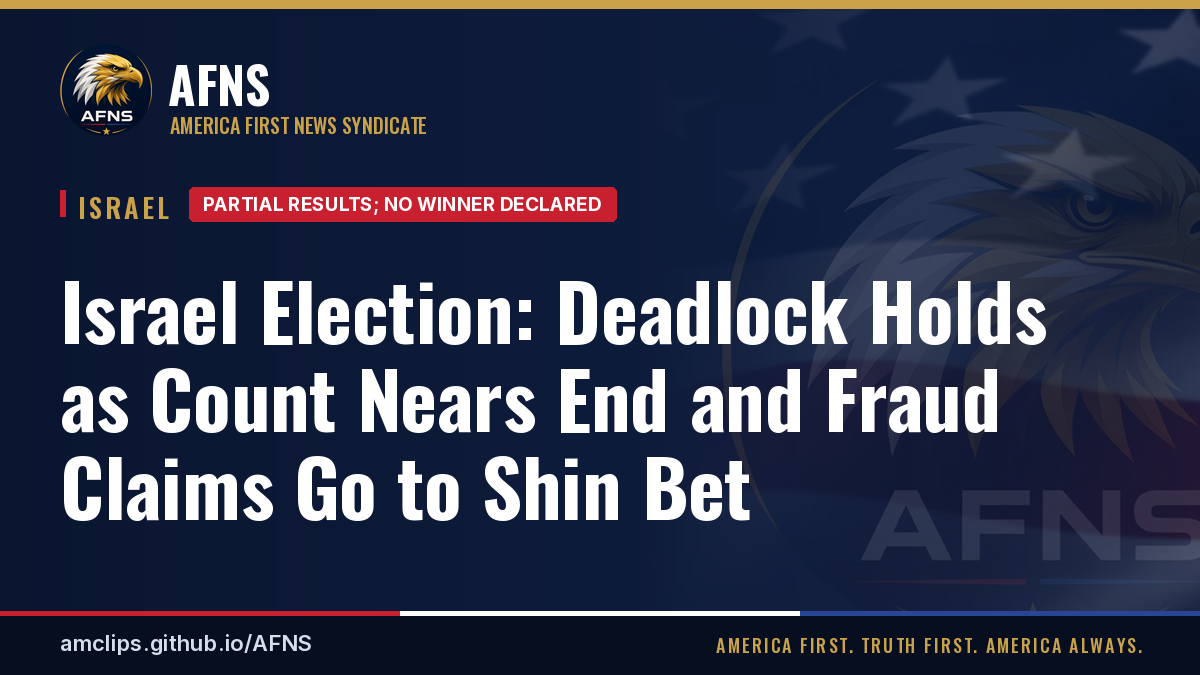
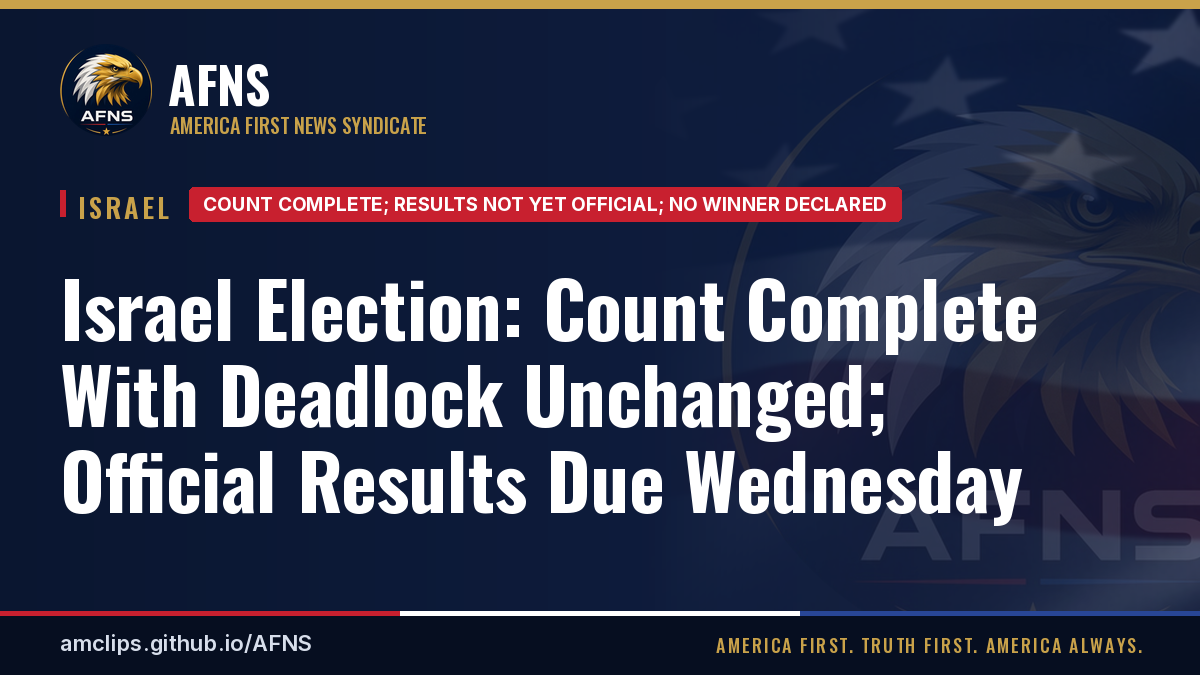
Update the Israel election and Iran stories for 11 AM. (#19)
The count is complete, with a UTJ report and an Iran energy-strike request. The election share card uses the new headline.

Changed region(s): [[0.0308, 0.4044, 0.8942, 0.7778], [0.1542, 0.28, 0.7708, 0.3422]]

diff --git a/content/israel/israel-election-no-clear-winner-netanyahu-eisenkot-claim-victory.md b/content/israel/israel-election-no-clear-winner-netanyahu-eisenkot-claim-victory.md
@@ -1,19 +1,22 @@
 ---
-title: "Israel Election: Deadlock Holds as Count Nears End and Fraud Claims Go to Shin Bet"
+title: "Israel Election: Count Complete With Deadlock Unchanged; Official Results Due Wednesday"
 desk: israel
 date: 2026-10-28
-summary: "Updated Oct. 29, 9 AM CT: with about 97.3% counted, Likud is up a seat to 27 and Shas is down to 6, but the blocs are unchanged at 53-48-19. The count should finish Thursday afternoon or evening Israel time. Seven people have been arrested in an alleged vote-buying probe in the Negev, while officials call wider fraud claims baseless. The elections committee asked the Shin Bet to look into foreign-interference claims, which are unproven; police say there is no evidence of fraud. A unity deal floated by Netanyahu's camp is UNVERIFIED, and Liberman ruled out more partners."
+summary: "Updated Oct. 29, 11 AM CT: the Central Elections Committee says counting is complete. With about 99% entered, the blocs are unchanged: Netanyahu bloc 53, and the opposition including Arab parties 67 (the same 53-48-19 split). The Reservists list missed the threshold, and official results come Wednesday, Nov. 4, after a final integrity review. Unnamed UTJ sources say the party could back Eisenkot from outside the coalition, on a draft-exemption condition. Seven people have been arrested in an alleged vote-buying probe in the Negev, while officials call wider fraud claims baseless. The elections committee asked the Shin Bet to look into foreign-interference claims, which are unproven; police say there is no evidence of fraud. A unity deal floated by Netanyahu's camp is UNVERIFIED, and Liberman ruled out more partners."
 image: "img/stories/israel-election-no-clear-winner-netanyahu-eisenkot-claim-victory.jpg"
 image_alt: "Ballot slips for each party list laid out in a voting booth at an Israeli polling station, Oct. 27, 2026"
 image_credit: "Nizzan Cohen / Wikimedia Commons"
 image_source_url: "https://commons.wikimedia.org/wiki/File%3A2026_election_polling_stations_02.jpg"
 image_license: "CC BY 4.0"
-status: "Partial results; no winner declared"
+status: "Count complete; results not yet official; no winner declared"
 featured: true
 desk_lead: true
 key_points:
-  - Count (Oct. 29, 9 AM CT) - about 97.3% counted; Likud up a seat to 27, Shas down to 6; blocs unchanged at 53-48-19 (Kan News and Jerusalem Post on X)
-  - Thresholds - the Reservists list looks set to miss the threshold. The count should finish Thursday afternoon or evening Israel time
+  - Count complete (Oct. 29, 11 AM CT) - the Central Elections Committee says counting is done. With about 99% entered, the Netanyahu bloc has 53 and the opposition including Arab parties 67 (Haaretz; ynet)
+  - Seats - Likud 27, Yashar 21, Together 12, Joint List 11, Ra'am 8, Democrats 8, Otzma Yehudit 7, Yisrael Beiteinu 7, UTJ 7, Shas 6, Religious Zionism 6. The Reservists list missed the threshold (Haaretz; ynet)
+  - Official results come Wednesday, Nov. 4, after a final election-integrity review
+  - Unnamed sources - a senior UTJ source told Channel 12 the party would abstain to support an Eisenkot minority government from outside, if a law exempts yeshiva students from the draft. Eisenkot backs universal service (Ynetnews; Times of Israel)
+  - Shin Bet - its interference probe rests on its own intelligence, not material from any party; Qatar called the claims "ridiculous and dangerous" (Haaretz/Reuters; Guardian)
   - Allegations - the Negev vote-buying probe has grown to seven arrests, including three Bedouin school principals; Kan says four were released to house arrest. Likud is preparing to seek revotes at some Arab polling stations (Ynet and Kan News on X)
   - Pushback - the elections committee director says widespread fraud claims appear baseless; a senior police official called them "baseless spin" (Times of Israel and Haaretz on X)
   - Qatar "categorically" denies interfering (i24NEWS and Ynet on X)
@@ -33,8 +36,7 @@ key_points:
   - Coalition scramble - ynet reports Likud is reaching out to Bennett and Liberman; Haaretz analysts say another election looks likely
   - UNPROVEN - Likud claims Arab parties "stole" the election. The elections committee is reviewing the claims and has not backed them, and Likud has shown no proof publicly
   - Trump, in comments reported from an Axios interview, said Netanyahu is "in pretty good shape"
-  - Netanyahu bloc 53, Eisenkot bloc 48, Arab parties a record 19; Likud 27, Yashar 21
-  - Official results go to Herzog next Wednesday, Nov. 4. Seats can still move until then
+  - Netanyahu bloc 53; opposition 67, made up of the Eisenkot bloc's 48 and a record 19 for the Arab parties; Likud 27, Yashar 21
   - Netanyahu's bloc was as high as 57 overnight at about 42% counted and has slipped since
   - Herzog urged parties to avoid a repeat election; he expects official results next week, with consultations after
   - The opposition is moving to replace Likud's Amir Ohana as Knesset speaker (Channel 12 via the Times of Israel)
@@ -42,6 +44,9 @@ key_points:
   - Defense Minister Katz called Eisenkot's election-night appeal to security chiefs undemocratic
   - The EU congratulated Israel, citing nearly 78% turnout as a sign of a "vibrant democracy"
 sources:
+  - Haaretz live, Oct. 29: count complete, Shin Bet on the probe | https://www.haaretz.com/israel-news/elections/2026-10-29/ty-article-live/seat-results-steady-as-elections-committee-begins-counting-absentee-ballots/000001a1-8567-d9b5-a3b5-cdf7e5cc0004
+  - Ynetnews: UTJ open to backing Eisenkot from outside | https://www.ynetnews.com/article/z6u0ropnp
+  - Times of Israel: UTJ sources on backing Eisenkot from outside | https://www.timesofisrael.com/liveblog_entry/utj-sources-proposing-to-back-eisenkot-from-outside-the-government-report/
   - Kan News on X: count at 97.3% | https://x.com/kann_news/status/2115796715194274060
   - Jerusalem Post on X: count at 97.3% | https://x.com/Jerusalem_Post/status/2115804621650161775
   - Ynetnews on X: vote-buying probe widens | https://x.com/ynetnews/status/2115762924660601131
@@ -54,7 +59,7 @@ sources:
   - Kan News on X: Abbas met Golan | https://x.com/kann_news/status/2115783837133451335
   - Jerusalem Post on X: Golan met Lapid | https://x.com/Jerusalem_Post/status/2115804575206715832
   - Jerusalem Post on X: Highway 4 Haredi protest | https://x.com/Jerusalem_Post/status/2115806033519996936
-  - X story summary: Al-Maghazi strike (unverified) | https://x.com/i/trending/2115777964608545249
+  - X story summary: Al-Maghazi strike | https://x.com/i/trending/2115777964608545249
   - ynet live (Hebrew): the count | https://www.ynet.co.il/news/blogs/article/sj60fvepze
   - Globes live (Hebrew): the count | https://www.globes.co.il/news/article.aspx?did=1001561230
   - Israel National News: the count | https://www.israelnationalnews.com/news/435322
@@ -116,9 +121,36 @@ sources:
   - Kan News on X: Sa'ar and Likud HQ | https://x.com/kann_news/status/2115185246060568781
 ---
 
-**Updated Oct. 29, 2026, 9 AM CT.** About 97.3% of the vote is counted, replacing the earlier 96.1% figure. Likud is up a seat and Shas is down one, and the blocs are unchanged. The 9 AM update below adds the widening vote-buying probe, officials' pushback on fraud claims, Qatar's denial and new opposition talks. The 7 AM update added the Shin Bet request on the fraud claims, an UNVERIFIED unity-deal briefing, Liberman's new refusals and the latest opposition talks. The figures below replace the earlier partial counts and the election-night early count. First published Oct. 27.
+**Updated Oct. 29, 2026, 11 AM CT.** The Central Elections Committee says counting is complete, replacing the earlier 97.3% figures. The blocs are unchanged. The 11 AM update below adds the full seat list, UTJ's reported opening to Eisenkot and the Shin Bet on its probe. The 9 AM update added the widening vote-buying probe, officials' pushback on fraud claims, Qatar's denial and new opposition talks. The 7 AM update added the Shin Bet request on the fraud claims, an UNVERIFIED unity-deal briefing, Liberman's new refusals and the latest opposition talks. The figures below replace the earlier partial counts and the election-night early count. First published Oct. 27.
 
-**Status: Partial results; no winner declared.** Counting is not finished, so **seats can still move**. No camp has a majority.
+**Status: Count complete; results not yet official; no winner declared.** The Central Elections Committee says counting is done. Official results come Wednesday, after a final election-integrity review. No camp has a majority.
+
+## 11 AM CT update, Oct. 29
+
+### Counting is complete. The deadlock is unchanged
+
+The Central Elections Committee says counting is done. With about 99% entered, the blocs are unchanged ([Haaretz live](https://www.haaretz.com/israel-news/elections/2026-10-29/ty-article-live/seat-results-steady-as-elections-committee-begins-counting-absentee-ballots/000001a1-8567-d9b5-a3b5-cdf7e5cc0004); [ynet live, Hebrew](https://www.ynet.co.il/news/blogs/article/sj60fvepze)):
+
+- **Netanyahu bloc:** 53 seats
+- **Opposition, including Arab parties:** 67 seats. This is the same split as the earlier 53-48-19: the Eisenkot bloc's 48 plus the Arab parties' 19.
+
+**Seats by party:** Likud 27, Yashar 21, Together 12, Joint List 11, Ra'am 8, Democrats 8, Otzma Yehudit 7, Yisrael Beiteinu 7, UTJ 7, Shas 6, Religious Zionism 6.
+
+**Threshold:** the Reservists list missed the threshold.
+
+**What's next:** official results come Wednesday, Nov. 4, after a final election-integrity review.
+
+### Unnamed sources: UTJ open to backing Eisenkot from outside
+
+**This is based on unnamed sources.** A senior UTJ source told Channel 12 that the party would abstain to support an Eisenkot minority government from outside the coalition. The condition is a law exempting yeshiva students from the draft. The source said UTJ's alliance with Netanyahu "has been exhausted" ([Ynetnews](https://www.ynetnews.com/article/z6u0ropnp); [Times of Israel](https://www.timesofisrael.com/liveblog_entry/utj-sources-proposing-to-back-eisenkot-from-outside-the-government-report/)).
+
+Eisenkot backs universal service, so the two sides are far from a deal.
+
+### Shin Bet: the probe rests on its own intelligence
+
+- **The Shin Bet:** its interference probe rests on its own intelligence, not material from any party. It says the probe does not implicate a community that voted legally ([Haaretz live, citing Reuters](https://www.haaretz.com/israel-news/elections/2026-10-29/ty-article-live/seat-results-steady-as-elections-committee-begins-counting-absentee-ballots/000001a1-8567-d9b5-a3b5-cdf7e5cc0004)).
+- **Netanyahu and Likud:** they are still using the probe to argue against partnering with Arab parties (Haaretz/Reuters; [Guardian live](https://www.theguardian.com/world/live/2026/oct/29/israel-election-results-live-updates-poll-netanyahu-eisenkot-bloc-coalition-latest-news)).
+- **Qatar:** Qatar called the claims "ridiculous and dangerous" (Haaretz/Reuters; Guardian live).
 
 ## 9 AM CT update, Oct. 29
 
@@ -151,18 +183,18 @@ Kan reports that Ra'am's Mansour Abbas met Democrats chair Yair Golan, and that 
 
 Ultra-Orthodox protesters blocked Highway 4 near Bnei Brak over the arrest of a draft deserter, and police closed the road (via [Jerusalem Post on X](https://x.com/Jerusalem_Post/status/2115806033519996936)).
 
-### UNVERIFIED: strike near Al-Maghazi in Gaza
+### Strike at Al-Maghazi in Gaza (updated 11 AM CT; not yet confirmed by wire services)
 
-**IDF has not confirmed.** According to an X story summary, Palestinian outlets and witnesses say an Israeli strike on a car near the entrance to Al-Maghazi camp killed two people (via [X story summary](https://x.com/i/trending/2115777964608545249)). AFNS has not verified this.
+**Not yet confirmed by wire services.** According to an X story summary, the IDF confirmed it struck a vehicle at the entrance to Maghazi camp. Palestinian sources say two men were killed (via [X story summary](https://x.com/i/trending/2115777964608545249)).
 
-## Update, Oct. 29: deadlock holds as the count nears its end
+## Update, Oct. 29, 7 AM CT: deadlock holds as the count nears its end
 
 ### The count
 
 - **Counted (7 AM CT):** about 96.1% of the vote, including more than half of the roughly 400,000-500,000 double-envelope ballots. 233,815 of them have been counted so far (ynet; Globes; Israel National News).
 - **Blocs unchanged:** Netanyahu bloc 53, Eisenkot bloc 48, Arab-led parties a record 19. At 96.1%, Likud had 26 seats and Eisenkot's Yashar 21; at 97.3%, Likud has 27 (Kan News and Jerusalem Post on X).
 - **Still moving:** the Reservists list of Yoaz Hendel and Zelikha looks set to miss the electoral threshold. At 97.3%, Likud gained a seat and Shas fell to 6 (Kan News and Jerusalem Post on X).
-- **Timing:** the count should finish Thursday afternoon or evening Israel time. Official results go to President Herzog next Wednesday.
+- **Timing (7 AM CT):** the count was expected to finish Thursday afternoon or evening Israel time. Official results go to President Herzog next Wednesday.
 - **Why it matters:** on these numbers, neither side has a path to 61 without breaking a campaign promise.
 
 ### Fraud claims go to the Shin Bet. They are unproven
@@ -230,23 +262,23 @@ Netanyahu's Likud party claims the Arab parties "stole" the election. It alleges
 
 ## Where the count stands
 
-With about 97.3% counted, the partial results are (Kan News and Jerusalem Post on X; earlier figures from ynet and Globes):
+The Central Elections Committee says counting is complete. With about 99% entered, the results are (Haaretz; ynet):
 
 - **Netanyahu bloc:** 53 seats, eight short of the 61 needed for a majority
-- **Eisenkot bloc:** 48 seats
-- **Arab parties:** 19 seats, a record
-- **Largest parties:** Likud 27, Yashar 21
+- **Opposition, including Arab parties:** 67 seats. That is the Eisenkot bloc's 48 plus the Arab parties' 19, a record
+- **By party:** Likud 27, Yashar 21, Together 12, Joint List 11, Ra'am 8, Democrats 8, Otzma Yehudit 7, Yisrael Beiteinu 7, UTJ 7, Shas 6, Religious Zionism 6
+- **Missed the threshold:** the Reservists list
 
-The bloc totals are unchanged from the earlier partial counts, at 85%, 92.9% and 96.1%.
+The bloc totals are unchanged from the earlier partial counts, at 85%, 92.9%, 96.1% and 97.3%. These results are not official until Wednesday.
 
 **The trend:** overnight, at about 42% counted, Netanyahu's bloc was as high as 57 seats. It has slipped since, while Eisenkot's side and the Arab parties have gained.
 
-## What's left to count, and when
+## The count, and what's next
 
 - **Double-envelope ballots:** these come from soldiers, police, diplomats and others. On Oct. 28, the Central Elections Committee estimated 430,000-480,000 of them, worth roughly 12 seats (Times of Israel). As of Oct. 29, 233,815 have been counted, more than half of the total (ynet; Globes).
-- **Finish:** the count should finish Thursday afternoon or evening Israel time.
-- **One reporter's estimate:** an i24NEWS correspondent estimates the ballots could shift the results by up to 10 seats. That is one reporter's estimate, not an official figure.
-- **Official results:** due Nov. 4. President Isaac Herzog said he expects them next week.
+- **Finish:** the Central Elections Committee says counting is complete (Haaretz; ynet).
+- **One reporter's estimate (earlier):** an i24NEWS correspondent had estimated the ballots could shift the results by up to 10 seats. In the completed count, the blocs did not change (Haaretz; ynet).
+- **Official results:** due Wednesday, Nov. 4, after a final election-integrity review. President Isaac Herzog said he expects them next week.
 - **Coalition talks:** AP says weeks of talks could lie ahead.
 
 ## Herzog urges parties to avoid a repeat election

diff --git a/content/israel/us-israel-signal-iran-campaign-after-midterms-tehran-talks.md b/content/israel/us-israel-signal-iran-campaign-after-midterms-tehran-talks.md
@@ -10,6 +10,7 @@ image_source_url: "https://commons.wikimedia.org/wiki/File%3ASun_rises_over_Patr
 image_license: "Public domain"
 status: "Reported; not confirmed"
 key_points:
+  - Update (Oct. 29, 11 AM CT) - Kan, citing an unnamed Israeli official, reports Israel asked the U.S. to approve strikes on Iranian energy facilities not yet hit, in case fighting resumes. No U.S. response has been reported. Trump says he wants to end the war very quickly (Kan; TASS, Russian state media)
   - Update (Oct. 29) - Qatar, backed by Saudi Arabia, Pakistan, Egypt and Turkey, is pushing a seven-day plan to let UN inspectors into bombed nuclear sites for some sanctions relief. A senior Iranian official called it "unacceptable"; Araghchi says Tehran is still talking to mediators
   - Update (Oct. 29) - Trump said "anything is possible" and hasn't made a final decision. Iran's reply to Qatar is expected by Saturday
   - Update (Oct. 29) - Trump says Vance's letter to Rezaei was about medical supplies; the WSJ says its purpose was to revive talks
@@ -30,6 +31,8 @@ key_points:
   - Saudi, Pakistani and Turkish officials met Iran's leadership in Tehran and agreed to keep talking
   - Why it matters for Americans: U.S. forces, U.S. energy prices and the post-midterm agenda are all in play
 sources:
+  - Kan (Hebrew): Israel asks U.S. to approve energy-site strikes | https://www.kan.org.il/content/kan-news/defense/live-1113966/liveid-1114033/
+  - TASS (Russian state media): summary of the Kan report | https://tass.com/world/2210251
   - CBS News live: Qatar mediators' new proposal | https://www.cbsnews.com/live-updates/iran-war-donald-trump-qatar-mediators-new-proposal-end-war/
   - Axios: Arab mediators and the war after the midterms | https://www.axios.com/2026/10/28/iran-war-arab-mediators-war-post-midterms
   - Iran International: reaction to the plan | https://www.iranintl.com/en/202610282816
@@ -60,9 +63,15 @@ sources:
   - Al-Monitor: Iran holds "very good talks" | https://www.al-monitor.com/originals/2026/10/iran-holds-very-good-talks-mecca-pact-nations-regions-security
 ---
 
-**Updated Oct. 29, 2026, 7 AM CT.** This article adds the Qatar-led seven-day plan and Iran's response, Trump's latest comments, the dispute over the Vance letter's purpose, a blockade boarding advisory and the Pentagon's cost figure. First published Oct. 28.
+**Updated Oct. 29, 2026, 11 AM CT.** This article adds Kan's report that Israel asked the U.S. to approve strikes on Iranian energy sites. The 7 AM update added the Qatar-led seven-day plan and Iran's response, Trump's latest comments, the dispute over the Vance letter's purpose, a blockade boarding advisory and the Pentagon's cost figure. First published Oct. 28.
 
 **Status: Reported; not confirmed.** The planning described below comes from a Wall Street Journal report, as relayed by Anadolu. AP has since reported similar warnings, citing two diplomats briefed on them. None of it has been officially announced. The diplomatic meetings in Tehran were reported by Al Jazeera, AP and Al-Monitor.
+
+## Update, Oct. 29, 11 AM CT: Israel reportedly seeks U.S. approval for energy-site strikes
+
+- **The report:** Kan, citing an unnamed Israeli official, says Israel asked Washington to approve strikes on Iranian energy facilities that have not yet been hit, in case fighting resumes ([Kan, Hebrew](https://www.kan.org.il/content/kan-news/defense/live-1113966/liveid-1114033/); [TASS summary](https://tass.com/world/2210251), Russian state media). This is based on an unnamed source.
+- **Washington:** no U.S. response has been reported.
+- **Trump:** he says he wants to end the Iran war very quickly (TASS summary).
 
 ## Update, Oct. 29: a Qatari plan, Iran's rejection and no final decision
 
